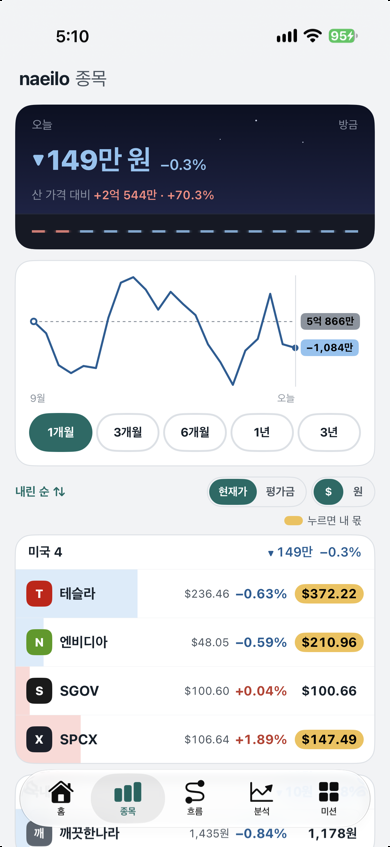
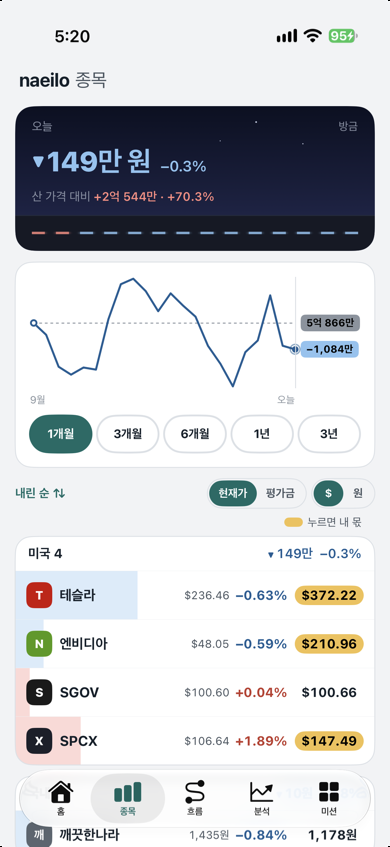
소개 페이지: 스크린샷 4장을 밝은·다크 한 쌍씩으로 바꾸고 안 쓰는 설정·전망 그림 지움 (#326)
Claude-Session: https://claude.ai/code/session_01Qiv9He1TXkPcaZsQfLfxrY

diff --git a/index.html b/index.html
@@ -97,10 +97,10 @@
     <h2>앱을 열면, 인물이 먼저 말을 걸어요</h2>
     <p class="muted">세리·시오·선배·이르·수아가 오늘 숫자를 전해요 · 매매 추천 아님</p>
     <div class="rail">
-      <figure><div class="phone"><picture><img src="img/app-home.png?v=6" alt="naeilo 앱 홈 화면. 평가액 4억 9,782만, 오늘 하락 이유를 전하는 인물의 한마디와 많이 움직인 종목" loading="lazy"></picture></div><figcaption>홈: 오늘 숫자와 한마디</figcaption></figure>
-      <figure><div class="phone"><picture><img src="img/app-stocks.png?v=1" alt="종목 화면. 오늘 −149만 원, 1개월 평가액 그래프와 테슬라·엔비디아·SGOV·SPCX 목록" loading="lazy"></picture></div><figcaption>종목: 내 종목을 한눈에</figcaption></figure>
-      <figure><div class="phone"><picture><img src="img/app-flow.png?v=2" alt="흐름 화면. 테슬라 일봉 그래프 위에 더블탑·플래그·더블바텀 패턴 이름표와 크고 작은 흐름 띠" loading="lazy"></picture></div><figcaption>흐름: 추세·패턴을 그래프로</figcaption></figure>
-      <figure><div class="phone"><picture><img src="img/app-analysis.png?v=1" alt="분석 화면. 10억 목표 가능성 33%, 끌어내리는 힘과 끌어올리는 힘, 언제 흔들릴지 보여 주는 그래프" loading="lazy"></picture></div><figcaption>분석: 목표까지 가능성과 이유</figcaption></figure>
+      <figure><div class="phone"><picture><source srcset="img/app-home-dark.png?v=7" media="(prefers-color-scheme: dark)"><img src="img/app-home.png?v=7" alt="naeilo 앱 홈 화면. 평가액 4억 9,782만, 오늘 하락 이유를 전하는 인물의 한마디와 많이 움직인 종목" loading="lazy"></picture></div><figcaption>홈: 오늘 숫자와 한마디</figcaption></figure>
+      <figure><div class="phone"><picture><source srcset="img/app-stocks-dark.png?v=2" media="(prefers-color-scheme: dark)"><img src="img/app-stocks.png?v=2" alt="종목 화면. 오늘 −149만 원, 1개월 평가액 그래프와 테슬라·엔비디아·SGOV·SPCX 목록" loading="lazy"></picture></div><figcaption>종목: 내 종목을 한눈에</figcaption></figure>
+      <figure><div class="phone"><picture><source srcset="img/app-flow-dark.png?v=3" media="(prefers-color-scheme: dark)"><img src="img/app-flow.png?v=3" alt="흐름 화면. 테슬라 일봉 그래프 위에 더블탑·플래그·더블바텀 패턴 이름표와 크고 작은 흐름 띠" loading="lazy"></picture></div><figcaption>흐름: 추세·패턴을 그래프로</figcaption></figure>
+      <figure><div class="phone"><picture><source srcset="img/app-analysis-dark.png?v=2" media="(prefers-color-scheme: dark)"><img src="img/app-analysis.png?v=2" alt="분석 화면. 10억 목표 가능성 33%, 끌어내리는 힘과 끌어올리는 힘, 언제 흔들릴지 보여 주는 그래프" loading="lazy"></picture></div><figcaption>분석: 목표까지 가능성과 이유</figcaption></figure>
     </div>
     <p class="note">샘플 금액 · 가상 종목 DRNK·QQQ</p>
   </section>
